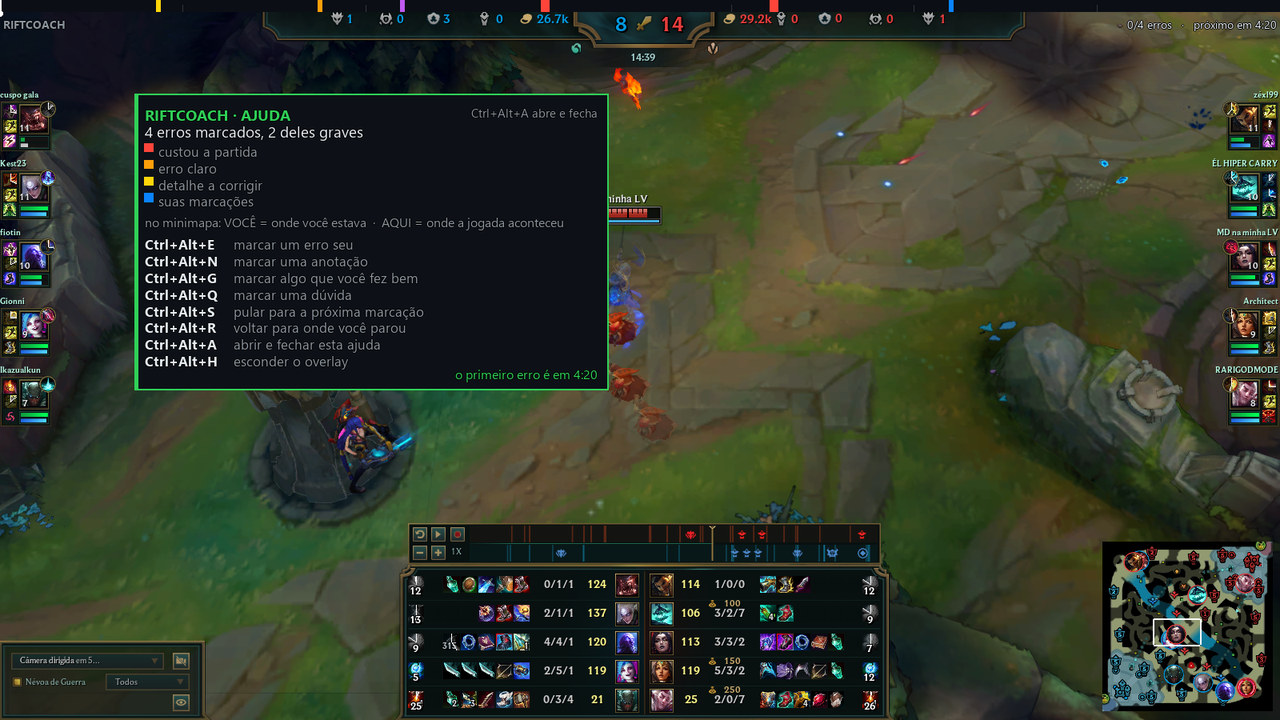
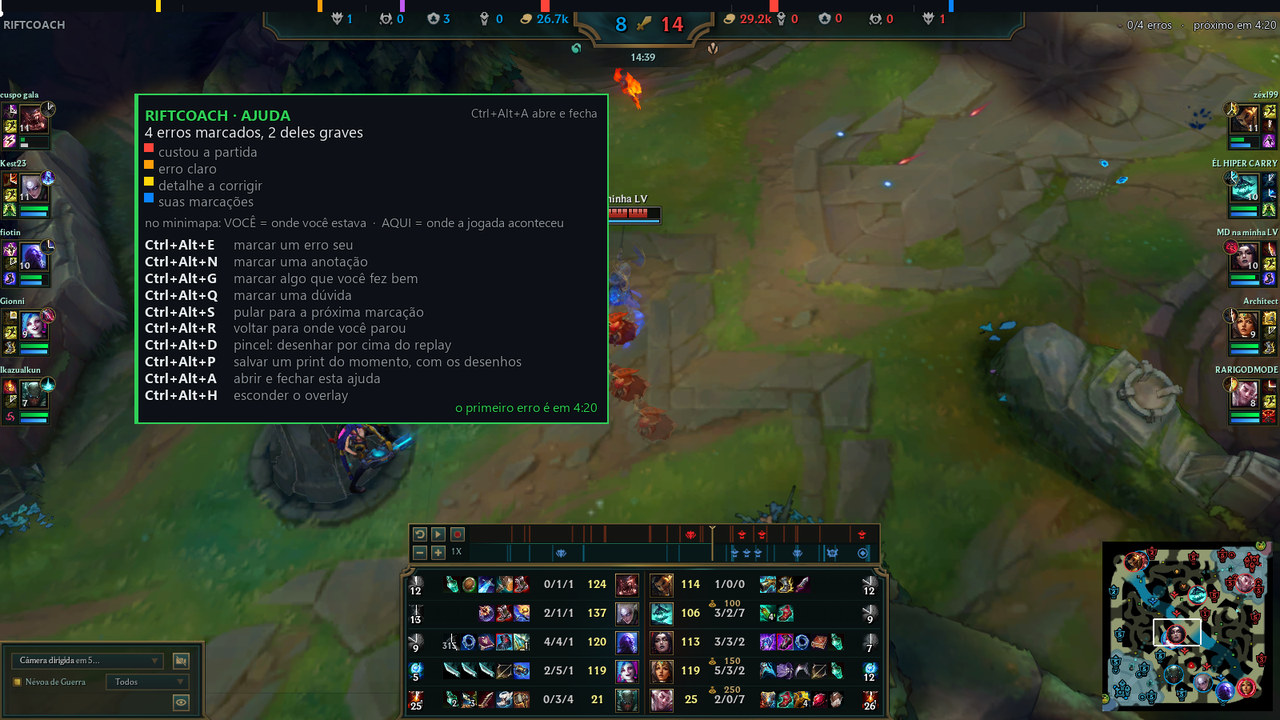
Tres findings, nao oito: o numero que a cota permite
O passe unico entrava no caminho certo e falhava. A causa estava na
resposta, nao na selecao nem na espera:

    entrada 4.661  +  saida reservada 2.048  =  6.709   (teto: 8.000)

Pedindo oito findings o modelo precisa de perto de 3.500 tokens de
saida, e o total passa de 8.161. Sem espaco ele responde ate o teto e o
JSON sai CORTADO NO MEIO — o segundo finding chega sem o campo `fix`, a
validacao recusa, e a analise inteira se perde por truncamento. O
sintoma nao dizia nada disso; dizia "nenhum provedor atende a tarefa".

Agora o passe unico pede TRES findings, de tres angulos diferentes, e o
prompt explica por que: uma resposta que estoura o limite sai cortada e
e descartada inteira, entao pedir mais e receber menos.

Verificado de ponta a ponta contra a BR1_3285636947:

    patch 16.18 · parser v1 · 8 findings
    modelos: groq:openai/gpt-oss-120b [free_cloud]
    passes: completo=1
    validacao: validado contra o patch: nenhuma violacao

Nenhuma falha. E a primeira vez que a camada de IA fecha uma analise
inteira neste projeto.

Junto: o pincel documentado com figura gerada pelo proprio codigo, e o
manual com o painel de ajuda.

692 testes, ruff e mypy --strict limpos.

Changed region(s): [[0.0938, 0.4583, 0.5, 0.6111]]

diff --git a/riftcoach/analysis/analysts.py b/riftcoach/analysis/analysts.py
@@ -117,18 +117,6 @@ class AnalystOutput(BaseModel):
     findings: list[AnalystFinding] = Field(default_factory=list, max_length=3)
 
 
-class CompletoOutput(BaseModel):
-    """A saida do passe unico.
-
-    Teto maior porque ele cobre QUATRO angulos, e nao um. Com o teto de 3 do
-    analista comum ele entregaria uma partida inteira em tres frases — e o
-    proprio prompt pede que pelo menos tres dos quatro angulos aparecam, o que
-    nao cabe em tres findings sem espremer.
-    """
-
-    findings: list[AnalystFinding] = Field(default_factory=list, max_length=8)
-
-
 class HeadCoachPick(BaseModel):
     """O head coach escolhe por REFERENCIA, nao reescrevendo.
 
@@ -312,25 +300,32 @@ async def _passe_completo(
 ) -> AnalysisResult:
     """Os quatro angulos numa chamada so.
 
-    Entrega menos profundidade por angulo que quatro passes dedicados — e
-    entrega, o que os quatro passes nao fazem quando a cota nao alcanca. Um
-    relatorio com quatro angulos rasos vale mais que dois angulos fundos e
-    dois erros de cota.
+    TRES FINDINGS, E NAO OITO, e o numero saiu de uma medicao que custou caro
+    descobrir. Contra o Groq, este passe consome:
+
+        entrada 4.661  +  saida reservada 2.048  =  6.709   (teto: 8.000)
+
+    Pedir oito findings exigiria perto de 3.500 tokens de saida, e o total
+    passaria de 8.161 — nao cabe. Sem espaco, o modelo responde ate o teto e o
+    JSON sai CORTADO NO MEIO: o segundo finding chega sem o campo `fix`, a
+    validacao recusa, e a analise inteira se perde por truncamento.
+
+    Entrega menos que quatro passes dedicados — e entrega, o que os quatro nao
+    fazem quando a cota nao alcanca. Tres findings de tres angulos diferentes,
+    somados aos deterministicos, valem mais que zero por erro de cota.
     """
     resultado = AnalysisResult()
     tarefa = text_task("analista_completo", CUSTO_POR_PASSE)
     prompt = f"{load_prompt('completo')}\n\n=== DADOS DA PARTIDA ===\n{packet.for_completo()}\n"
     try:
         completo = await router.complete_validated(
-            tarefa, prompt, CompletoOutput, system=load_prompt("_system")
+            tarefa, prompt, AnalystOutput, system=load_prompt("_system")
         )
     except (NoViableProvider, SchemaExhausted) as e:
         resultado.failures["completo"] = e.message
         return resultado
 
-    # `to_findings` so precisa de `.findings`, e os dois modelos o tem com o
-    # mesmo tipo de item — o que muda entre eles e so o teto.
-    conv = to_findings(AnalystOutput(findings=completo.findings), duracao_ms, "completo")
+    conv = to_findings(completo, duracao_ms, "completo")
     resultado.entities.update(dict(conv.entities.items()))
     resultado.by_analyst["completo"] = conv.findings
     resultado.findings.extend(conv.findings)

diff --git a/scripts/gerar_figuras.py b/scripts/gerar_figuras.py
@@ -16,7 +16,7 @@ import sys
 from pathlib import Path
 
 from riftcoach.cli import _console_em_utf8
-from riftcoach.core.schema import Mark
+from riftcoach.core.schema import Mark, Stroke
 from riftcoach.overlay.preview import gerar
 from riftcoach.overlay.scene import OverlayState, build
 
@@ -184,6 +184,43 @@ def _tela_final(a: object) -> None:
     app.tela_pronto()  # type: ignore[attr-defined]
 
 
+MOMENTO_CRITICO = 14 * 60_000 + 54_000
+
+
+def _com_pincel(st: OverlayState) -> OverlayState:
+    """O mesmo estado, com o pincel ligado e um desenho de exemplo.
+
+    O desenho imita o que um treinador faz na lousa: circula o que estava
+    errado, e aponta para onde era para estar.
+    """
+    import math
+
+
+    st.modo_desenho = True
+    st.cor_do_pincel = "#ff453a"
+    st.espessura_do_pincel = 4.0
+    circulo = [
+        (0.24 + 0.055 * math.cos(a / 9 * 2 * math.pi), 0.50 + 0.085 * math.sin(a / 9 * 2 * math.pi))
+        for a in range(10)
+    ]
+    st.strokes = [
+        Stroke(t_ms=MOMENTO_CRITICO, points=circulo, color="#ff453a", width=4.0),
+        Stroke(
+            t_ms=MOMENTO_CRITICO,
+            points=[(0.30, 0.47), (0.40, 0.40), (0.47, 0.36)],
+            color="#ffd60a",
+            width=4.0,
+        ),
+        Stroke(
+            t_ms=MOMENTO_CRITICO, points=[(0.47, 0.36), (0.43, 0.38)], color="#ffd60a", width=4.0
+        ),
+        Stroke(
+            t_ms=MOMENTO_CRITICO, points=[(0.47, 0.36), (0.45, 0.41)], color="#ffd60a", width=4.0
+        ),
+    ]
+    return st
+
+
 def main() -> None:
     _console_em_utf8()
     if not FUNDO.exists():
@@ -200,6 +237,10 @@ def main() -> None:
     # versao que nao existe mais.
     caminho = gerar(FUNDO, build(st, 0, boas_vindas=True), SAIDA / "overlay-ajuda.jpg", escala=0.8)
     print(f"{caminho.relative_to(RAIZ)}  —  o painel de ajuda, aberto com Ctrl+Alt+A")
+
+    caminho = gerar(FUNDO, build(_com_pincel(st), MOMENTO_CRITICO), SAIDA / "overlay-pincel.jpg",
+                    escala=0.8)
+    print(f"{caminho.relative_to(RAIZ)}  —  o pincel ligado, com um circulo e uma seta")
 
     if "--sem-janela" not in sys.argv:
         figuras_da_janela()

diff --git a/tests/test_llm.py b/tests/test_llm.py
@@ -1212,13 +1212,14 @@ def test_cota_apertada_troca_quatro_passes_por_um() -> None:
     assert _cabe_em_quatro_passes(_FakeRouter(None))  # type: ignore[arg-type]
 
 
-def test_o_passe_unico_pode_entregar_mais_findings() -> None:
-    """Ele cobre QUATRO angulos, e nao um. Com o teto de 3 do analista comum
-    entregaria uma partida inteira em tres frases."""
-    from riftcoach.analysis.analysts import AnalystOutput, CompletoOutput
+def test_o_teto_de_findings_cabe_na_cota() -> None:
+    """Medido: entrada 4.661 + saida reservada 2.048 = 6.709 contra um teto de
+    8.000. Pedir oito findings exigiria ~3.500 de saida e passaria de 8.161 —
+    a resposta sairia cortada no meio, sem o campo `fix` do segundo finding, e
+    a validacao descartaria a analise inteira."""
+    from riftcoach.analysis.analysts import AnalystOutput
 
     assert AnalystOutput.model_fields["findings"].metadata[0].max_length == 3
-    assert CompletoOutput.model_fields["findings"].metadata[0].max_length == 8
 
 
 def test_o_prompt_do_passe_unico_existe() -> None:
@@ -1229,3 +1230,4 @@ def test_o_prompt_do_passe_unico_existe() -> None:
     texto = load_prompt("completo")
     for palavra in ("Rota", "Macro", "Economia", "Lutas"):
         assert palavra in texto, f"o passe unico precisa cobrir {palavra}"
+    assert "TRES" in texto, "o teto de tres precisa estar no prompt, nao so no schema"

diff --git a/riftcoach/analysis/prompts/completo.md b/riftcoach/analysis/prompts/completo.md
@@ -20,10 +20,18 @@ uma janela de cota.
 
 ## Como distribuir os findings
 
-Produza entre 4 e 8 findings no total, cobrindo pelo menos TRES dos quatro
-angulos. Nao gaste os quatro findings no mesmo tema so porque ele e o mais
-visivel: a pessoa ja sabe que morreu oito vezes; o que ela nao sabe e o que
-cada morte tinha em comum.
+Produza EXATAMENTE TRES findings, cada um de um angulo DIFERENTE. Tres, e nao
+mais: a cota do provedor nao comporta uma resposta maior, e uma resposta que
+estoura o limite sai cortada no meio e e descartada inteira — voce perde os
+tres.
+
+Escolha os tres angulos mais decisivos para esta partida e deixe o quarto de
+fora. Nao gaste os tres no mesmo tema so porque ele e o mais visivel: a pessoa
+ja sabe que morreu oito vezes; o que ela nao sabe e o que cada morte tinha em
+comum.
+
+Seja economico no texto. Uma frase por `claim`, uma por `fix`, no maximo duas
+evidencias por finding.
 
 Um finding por causa. Duas mortes pelo mesmo motivo sao UM finding que cita as
 duas, e nao dois findings parecidos.

diff --git a/README.md b/README.md
@@ -76,6 +76,12 @@ E você marca as suas, com a janela do jogo na frente:
 Você não precisa decorar: `Ctrl+Alt+A` mostra tudo isso dentro do jogo, junto com o significado
 de cada cor.
 
+**E dá para desenhar.** `Ctrl+Alt+D` liga o pincel — o replay pausa, e você circula a wave, marca
+a rota que deveria ter feito, aponta de onde veio o gank. `Ctrl+Alt+P` salva tudo como um PNG,
+pronto para mandar para alguém.
+
+![O pincel ligado, com um círculo e uma seta desenhados](docs/img/overlay-pincel.jpg)
+
 **As suas marcações ficam salvas.** Ao reabrir a mesma partida, elas voltam junto com as da IA — e é
 comparando as duas que se aprende mais: onde a IA marcou crítico e você não sentiu nada é ponto
 cego; onde você sentiu que errou e a medição não viu costuma ser troca de dano, combo ou

diff --git a/docs/MANUAL.md b/docs/MANUAL.md
@@ -583,6 +583,8 @@ tocar na linha do tempo do client.
 
 #### O pincel
 
+![O pincel ligado, com um círculo e uma seta desenhados](img/overlay-pincel.jpg)
+
 `Ctrl+Alt+D` liga o pincel. Três coisas acontecem juntas, e as três são
 propositais:
 
